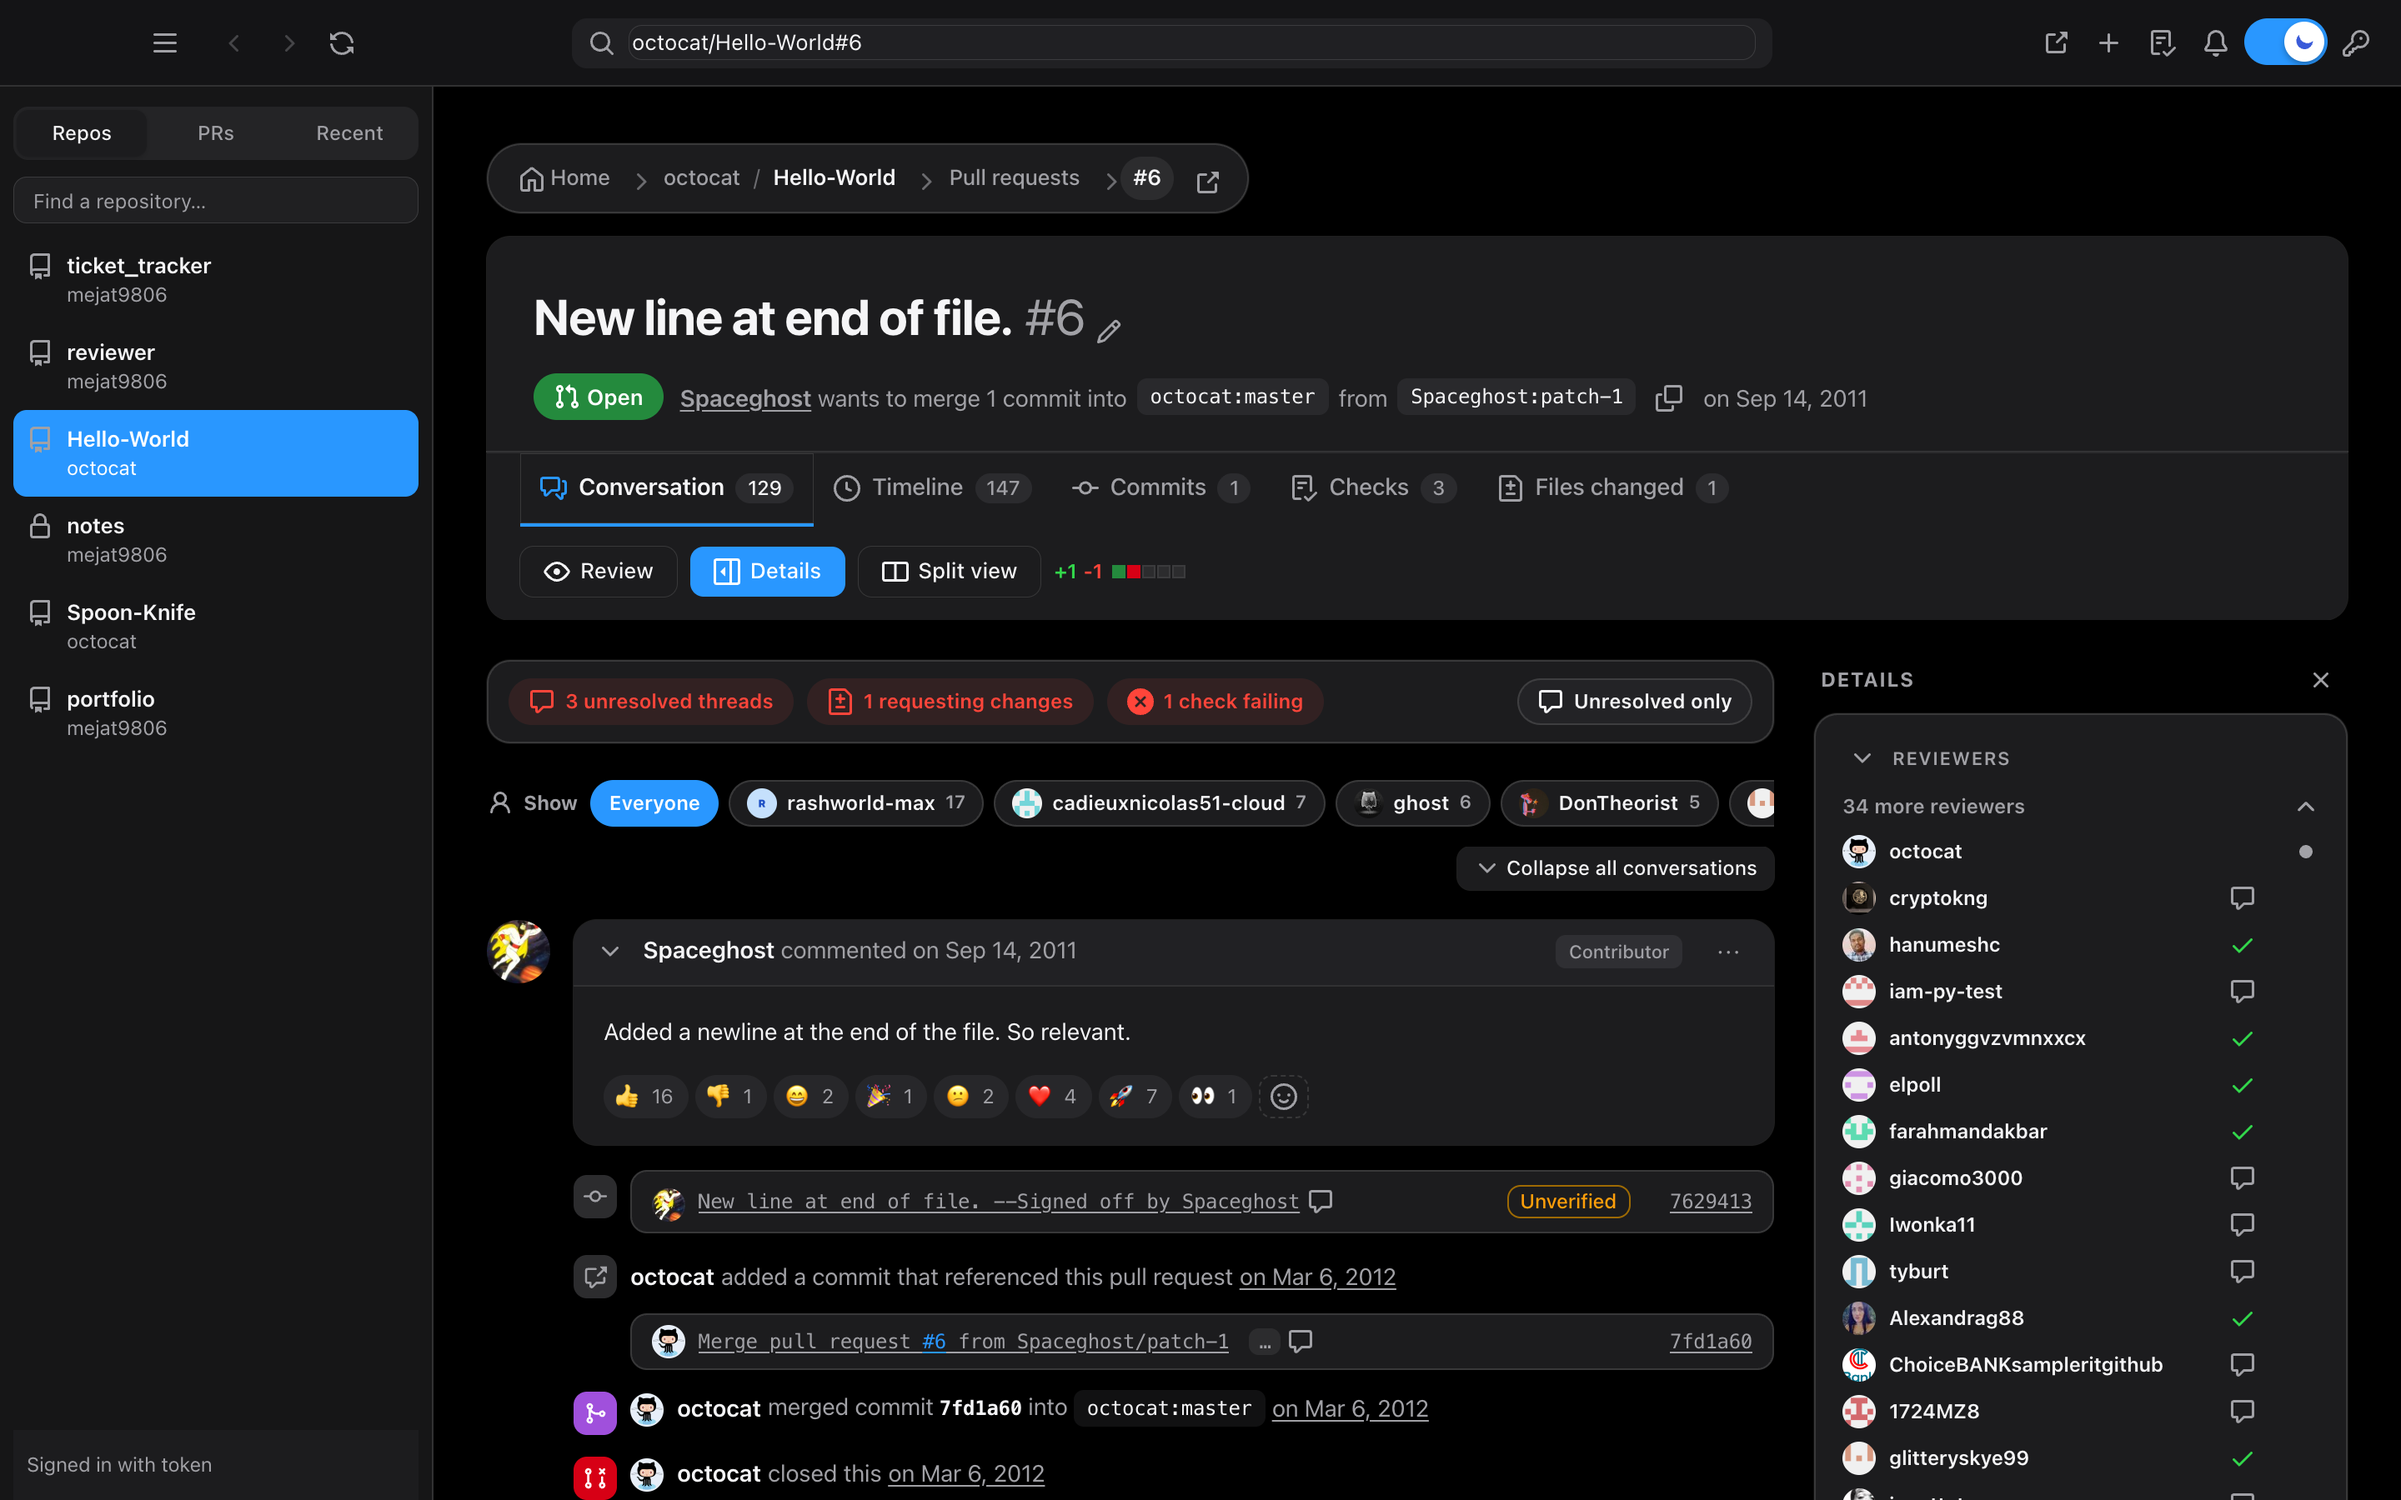
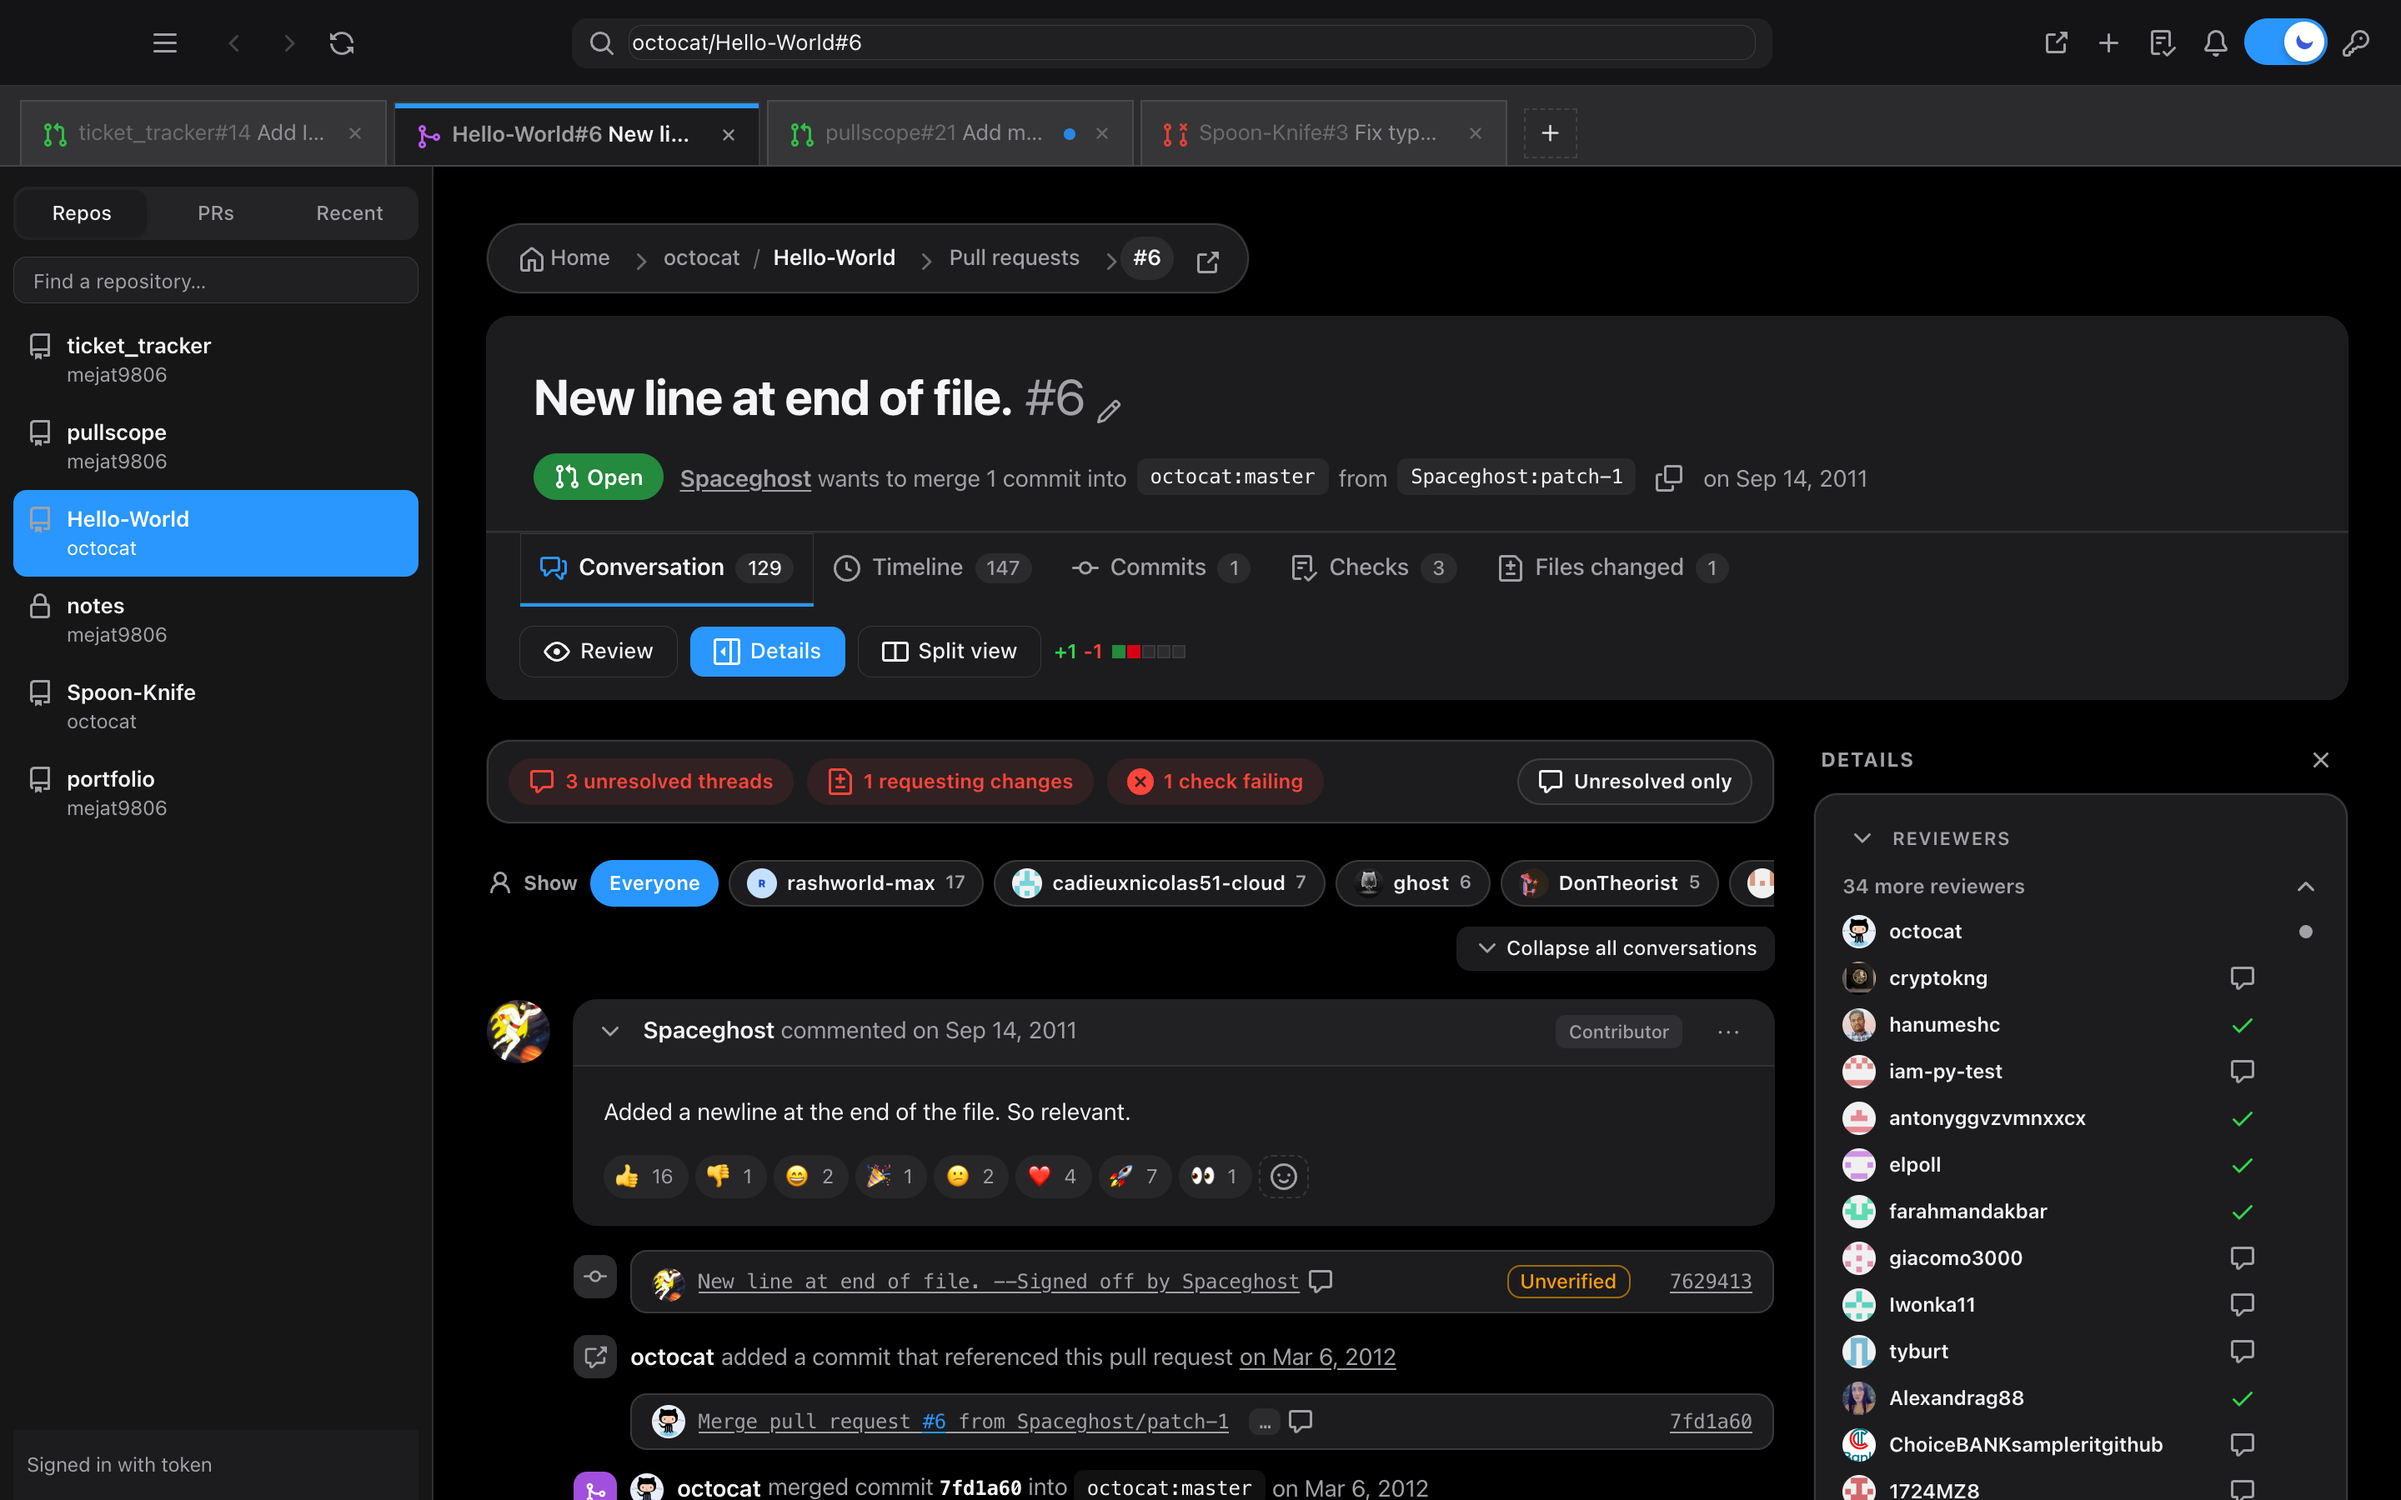
Refresh README and screenshots for Pullscope

diff --git a/README.md b/README.md
@@ -10,10 +10,10 @@ A fast desktop app for reviewing GitHub pull requests. It is built with Tauri v2
 
 **Read a pull request**
 - Conversation, timeline, commits, checks and files tabs, with attention chips (unresolved threads, requested changes, failing checks) and a filter by author.
-- Syntax-highlighted diffs, unified or side by side, with collapsible files.
+- Syntax-highlighted diffs, unified or side by side, with collapsible files. Long diffs load progressively so big PRs stay fast.
 - **Split view**: commits and their diff beside the conversation, resizable, with a flip button and per-pane collapse.
 - Collapse or expand every conversation, review and thread in one click.
-- **Tabs**: keep several PRs open at once (`⌘T`, `⌘W`, `⌘⇧T`, `⌘1–9`; `⌘`-click or middle-click a PR to open it in a new tab). Tabs survive a restart and show a dot when a background tab has new activity; the + menu lists recent PRs.
+- **Tabs**: keep several PRs open at once (`⌘T`, `⌘W`, `⌘⇧T`, `⌘1–9`; `⌘`-click or middle-click a PR to open it in a new tab). Tabs survive a restart and show a dot when a background tab has new activity; the + menu lists recent PRs. Drag tabs to reorder them.
 
 ![Files changed](docs/screenshots/files-split.png)
 
@@ -30,7 +30,7 @@ A fast desktop app for reviewing GitHub pull requests. It is built with Tauri v2
 **Manage the pull request**
 - Create a PR: pick repo, base and head, title, rich description, draft option, reviewers, assignees, labels, milestone and linked issues (`Closes #N`).
 - Edit the title and description, mark ready for review or convert back to draft, close and reopen.
-- A GitHub-style merge box: review status, grouped checks, **Re-run failed** (GitHub Actions), **Update branch**, merge method, **auto-merge**.
+- A GitHub-style merge box: review status, grouped checks with **Required** badges, **Re-run failed** (GitHub Actions), **Update branch**, merge method, **auto-merge**.
 
 ![Merge box](docs/screenshots/merge-box.png)
 
@@ -54,7 +54,11 @@ The installers are not code-signed, so macOS (Gatekeeper) and Windows (SmartScre
 
 ## Sign in
 
-Open the key button (`⌘,`) and paste a **classic** personal access token with the `repo` scope (add `notifications` for the notifications poll). Without a token you can read public pull requests, limited to 60 API requests per hour.
+Pullscope requires a GitHub sign-in; without one it shows a sign-in screen instead of loading slowly at 60 requests an hour.
+
+![Sign in](docs/screenshots/sign-in.png)
+
+Choose **Sign in with GitHub** (device flow: enter the code shown on github.com), or **Use a token instead** and paste a **classic** personal access token with the `repo` scope (add `notifications` for the notifications poll).
 
 The token is stored in the macOS Keychain, Windows Credential Manager or the Linux Secret Service (a running keyring such as GNOME Keyring is needed). `GITHUB_TOKEN` and `gh auth login` also work.
 
@@ -90,6 +94,8 @@ Writing actions need the desktop app; in the browser preview they are disabled.
 
 ### Releases
 
+Installed builds check for updates on launch and offer a one-click update (signed with `TAURI_SIGNING_PRIVATE_KEY`, set as a repository secret). Unit tests run in CI (`cargo test --lib`).
+
 Pushing a `v*` tag runs `.github/workflows/release.yml`, which builds installers for macOS, Windows and Linux and attaches them to a **draft** GitHub Release. Publish the draft from the Releases page.
 
 ## Project layout
@@ -107,11 +113,10 @@ Pushing a `v*` tag runs `.github/workflows/release.yml`, which builds installers
 ## Known limits
 
 - Re-running checks only works for GitHub Actions; checks from other services open on GitHub instead.
-- "Required" badges on checks are not shown (they need a branch-protection lookup).
 - Auto-merge only works if the repository has "Allow auto-merge" turned on.
 - Windows and Linux notifications are plain banners; clicking one does not open the PR yet.
 - GitHub has no push channel for third-party apps, so notifications are polled about once a minute while the app is open.
-- The pieces that talk to GitHub (resolve, apply suggestion, create PR, notifications, re-run) have been exercised by hand on a few repositories, not by an automated test suite.
+- The pieces that talk to GitHub (resolve, apply suggestion, create PR, notifications, re-run) have been exercised by hand on a few repositories; automated tests cover parsing and the HTTP layer only.
 
 ## Native Swift apps (Mac + iPhone/iPad)
 
